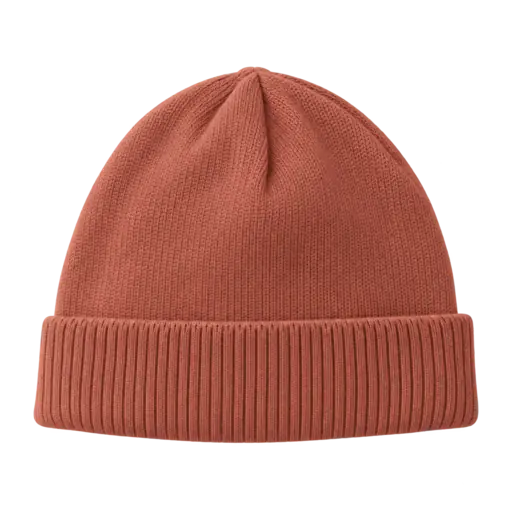
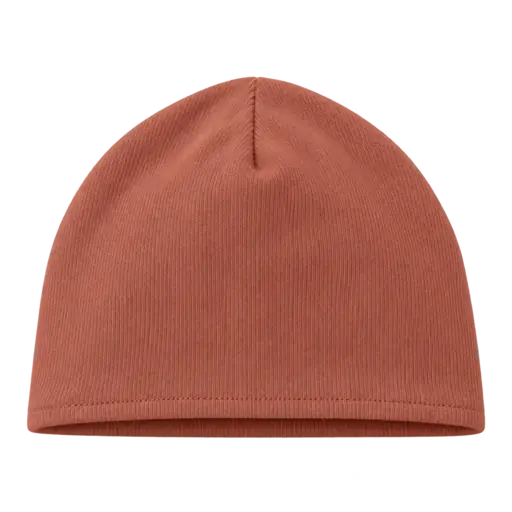
Dünne Mützen und Fleecejacken visuell verbessern
Ersetzt die dünnen Mützen und Fleecejacken durch klarere, passende Runtime-Assets und aktualisiert den Service-Worker-Cache.

Changed region(s): [[0.0312, 0.125, 0.9688, 0.875], [0.3125, 0.5, 0.3438, 0.5938]]

diff --git a/e2e/service-worker-upgrade.spec.js b/e2e/service-worker-upgrade.spec.js
@@ -1,7 +1,7 @@
 import { test, expect } from '@playwright/test';
 
 const OLD_CACHE = 'babywetter-shell-v0.2.0-assets17';
-const NEW_CACHE = 'babywetter-shell-v0.2.0-assets20';
+const NEW_CACHE = 'babywetter-shell-v0.2.0-assets21';
 
 test('Service-Worker-Upgrade ersetzt den vorherigen App-Shell-Cache', async ({ page, context }) => {
   await page.goto('/?demo=1');

diff --git a/sw.js b/sw.js
@@ -1,4 +1,4 @@
-const CACHE_NAME = 'babywetter-shell-v0.2.0-assets20';
+const CACHE_NAME = 'babywetter-shell-v0.2.0-assets21';
 const ASSET_MANIFEST_PATH = '/assets/clothing/manifest.json';
 const VISUAL_MANIFEST_PATH = '/assets/clothing/visual-manifest.json';
 const SHELL = [
